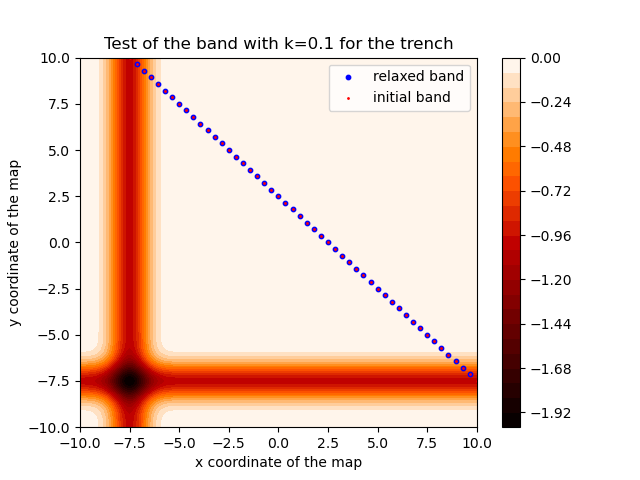
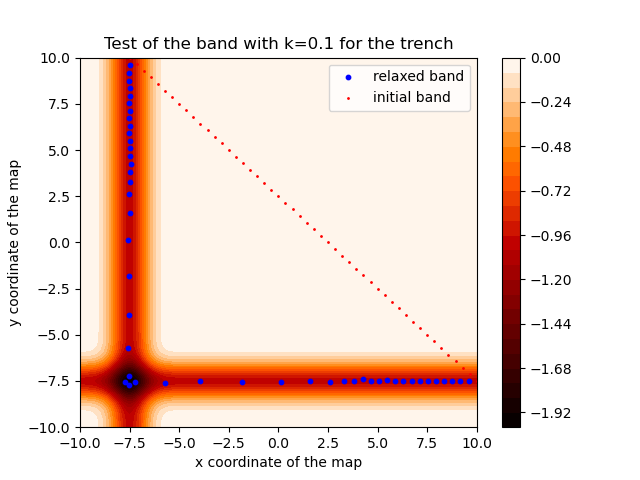
WOrking with analytical formula

diff --git a/el_band.py b/el_band.py
@@ -40,15 +40,15 @@ def mapCreation(offs, N = 10000, intv=(-10,10)):
     
     x   = np.linspace(*intv,N)
     X,Y = np.meshgrid(x,x)
-    Z = Z = -1*np.exp(-(X-offs)**2)-1*np.exp(-(Y-offs)**2)#+np.exp(-1/3*(X+offs)**2)+3*np.exp(-0.01*(Y)**2) #+3*np.exp(-0.1*((X)**2+(Y+7)**2))+3*np.exp(-0.1*((X)**2+(Y-8)**2))#+3*np.exp(-0.01*((Y-offs)**2+(X-10)**2))+3*np.exp(-0.01*((X-offs)**2+(Y-10)**2))
+    Z = +3*np.exp(-0.1*((X-4)**2+(Y+7)**2))+3*np.exp(-0.1*((X)**2+(Y-8)**2))
+    #-1*np.exp(-1*(X)**2)-1*np.exp(-1*(Y-offs)**2) #3*np.exp(-0.1*((X-4)**2+(Y)**2))#-1*np.exp(-(X-offs)**2)-1*np.exp(-(Y-offs)**2)#+np.exp(-1/3*(X+offs)**2)+3*np.exp(-0.01*(Y)**2) #+3*np.exp(-0.1*((X)**2+(Y+7)**2))+3*np.exp(-0.1*((X)**2+(Y-8)**2))#+3*np.exp(-0.01*((Y-offs)**2+(X-10)**2))+3*np.exp(-0.01*((X-offs)**2+(Y-10)**2))
     #-1*np.exp(-(X-offs)**2)-1*np.exp(-(Y-offs)**2)+np.exp(-1/3*(X+offs)**2)+3*np.exp(-0.01*(Y)**2)
-    #Z = np.where(Z<-1,-1,Z)
-
+    
     plt.contourf(X,Y,Z)
     plt.savefig("map_raw.png")
-    #data = pd.DataFrame(X,Y,Z)
+    #data = pd.DataFrame((X,Y,Z))
     #data.to_csv("map_data.csv")
-    np.save("data_raw",X,Y,Z)
+    #np.save("data_raw",X,Y,Z)
     return x,x,Z
 
 def Energy(band,init,final,x_ext,y_ext,Z,N=1000,k=1):
@@ -63,7 +63,9 @@ def Energy(band,init,final,x_ext,y_ext,Z,N=1000,k=1):
     #print(init,final)
     #band = np.array(band)
     #print(len(band))
+    #print(np.shape(band),band)
     X = list(band[::2])
+    #print(X)
     X.insert(0,init[0])
     X.append(final[0])
     Y = list(band[1::2])
@@ -78,6 +80,7 @@ def Energy(band,init,final,x_ext,y_ext,Z,N=1000,k=1):
     for x in X:
         comp_x = np.argwhere(np.where(np.abs(x_ext-x)<0.9*spacing,1,0))
         #print(np.size(comp_x))
+        #print(comp_x)
         if np.size(comp_x) == 0:
             raise RuntimeError(f"Found no matching indices for x={x}!")
         elif x < 0 :
@@ -96,14 +99,17 @@ def Energy(band,init,final,x_ext,y_ext,Z,N=1000,k=1):
             idx_y.append(comp_y[-1][0])
     
     #print(idx_x,idx_y)
-    poten = 0
-    for i in range(np.size(idx_x)):
-        poten += Z[idx_x[i],idx_y[i]]
+    #poten = 0
+    #for i in range(np.size(idx_x)):
+        #poten += Z[idx_x[i],idx_y[i]]
+    #    poten += -1*np.exp(-0.01*(X)**2)-1*np.exp(-0.01*(Y-offs)**2)
 
     #X = [band[i][0] for i in range(len(band))]
     #Y = [band[i][1] for i in range(len(band))]
     results = []
+    poten   = []
     for idpoint in range(len(X)):
+        poten.append(height(X[idpoint],Y[idpoint]))
         if idpoint == 0:
             results.append(k*((X[0]-X[1])**2+(Y[0]-Y[1])**2))
         elif idpoint == len(X)-1:
@@ -112,9 +118,10 @@ def Energy(band,init,final,x_ext,y_ext,Z,N=1000,k=1):
             results.append(k * ((X[idpoint-1]-X[idpoint])**2+(X[idpoint+1]-X[idpoint])**2 + \
                         (Y[idpoint-1]-Y[idpoint])**2 + (Y[idpoint+1]-Y[idpoint])**2))
     #print(np.sum(results),poten)
-    return poten + np.sum(results)
+    return np.sum(poten) + np.sum(results)
     
-
+def height(X,Y):
+    return +3*np.exp(-0.1*((X-4)**2+(Y+7)**2))+3*np.exp(-0.1*((X)**2+(Y-8)**2))
 
 
 N=5000
@@ -123,13 +130,16 @@ offs = -3*10/4
 N_band  = 50
 p_init  = (10,offs)
 p_final = (offs,10)
-k=1.2
+k=1e-1
 #Creating a linear interpolation between the two points as a first guess
 band = np.zeros([N_band,2])
 band[:,0]   = np.linspace(p_init[0],p_final[0],N_band)
 band[:,1]   = np.linspace(p_init[1],p_final[1],N_band)
 #band[4,0]   = +offs+0.5
 band_list = [band[i,:] for i in range(np.shape(band)[0])]
+print(np.shape(band_list),band_list)
+print(np.array(band_list).flatten())
+
 #print(band)
 #data = pd.read_csv("map_data.csv")
 x,y,Z = mapCreation(offs,N=N)
@@ -137,7 +147,7 @@ x,y,Z = mapCreation(offs,N=N)
 spacing = (max(x)-min(x))/N
 bound = [(-10+spacing,10-spacing) for _ in range((N_band-2)*2)]
 
-res = opt.minimize(Energy,band_list[1:-1],args=(band_list[0],band_list[-1],x,y,Z,N,k),method='L-BFGS-B',bounds=bound,jac='2-point',options={'disp':True,'eps':spacing})
+res = opt.minimize(Energy,band_list[1:-1],args=(band_list[0],band_list[-1],x,y,Z,N,k),bounds=bound,options={'disp':True})
 
 #%%
 new_x = np.array(res.x[::2])
@@ -154,6 +164,6 @@ ax.scatter(band[:,0],band[:,1],c='red',s=1,label='initial band')
 ax.set_xlabel('x coordinate of the map')
 ax.set_ylabel('y coordinate of the map')
 ax.legend()
-ax.set_title(f'Test of the band with k={k} for the trench')
-fig.savefig(f'El_band_k_{k}_trench.png')
+ax.set_title(f'Test of the band with k={k} for the middle trench')
+fig.savefig(f'El_band_k_{k}_mid_trench_new_endpoints2.png')
 fig.show()
